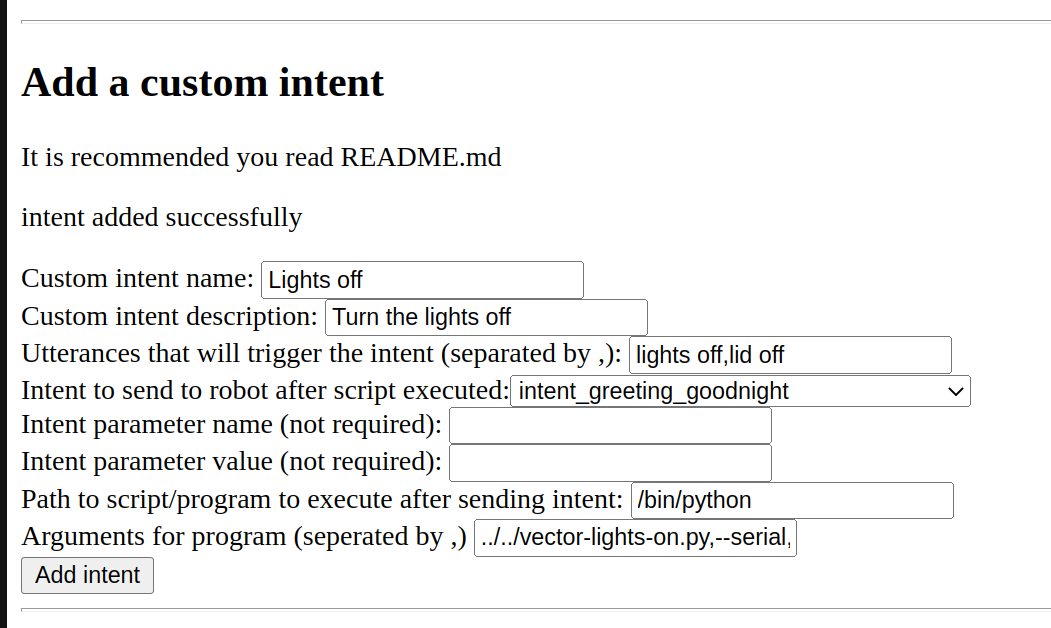
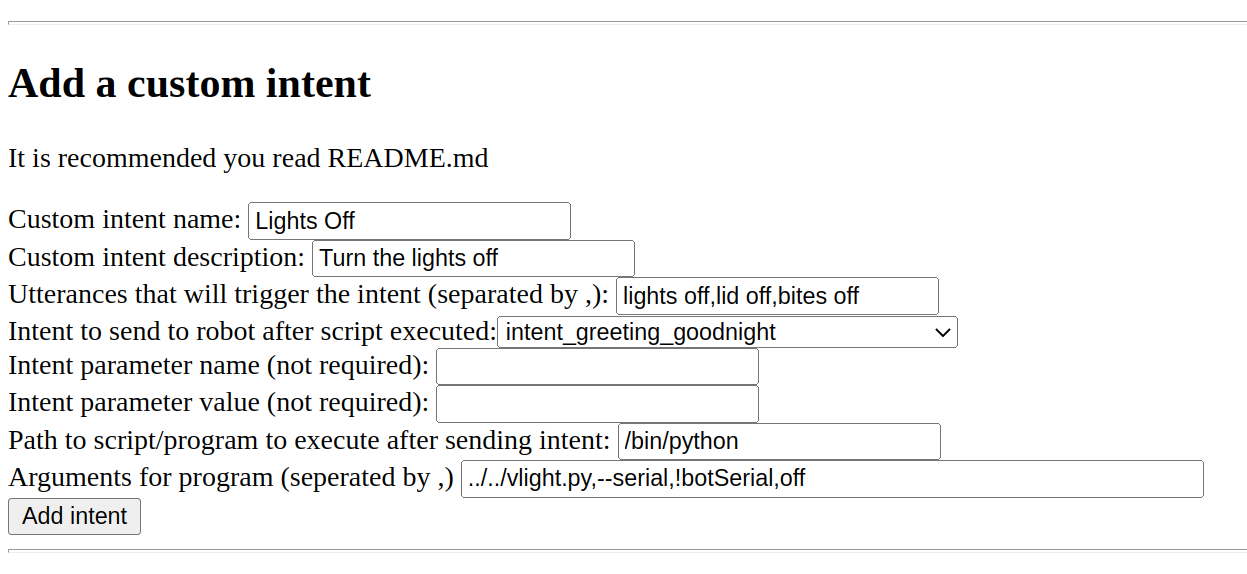
Update screenshot to match description in readme, increase argument form width for custom intents

Changed region(s): [[0.0, 0.0, 1.0, 1.0]]

diff --git a/chipper/webroot/index.html b/chipper/webroot/index.html
@@ -24,7 +24,7 @@
             <label for="execAdd">Path to script/program to execute after sending intent:</label>
             <input type="text" name="execAdd" id="execAdd"><br>
             <label for="execAdd">Arguments for program (seperated by ,)</label>
-            <input type="text" name="execAddArgs" id="execAddArgs"><br>
+            <input type="text" name="execAddArgs" id="execAddArgs" size="50"><br>
         </form>
         <button onclick="sendIntentAdd()">Add intent</button>
     <hr>

diff --git a/README.md b/README.md
@@ -177,9 +177,8 @@ Chipper hosts a web interface at port 8080. This can be used to create custom in
 To get to it, open a browser and go to `http://serverip:8080`, replacing serverip with the IP address of the machine running the chipper server. If you are running the browser on the machine running chipper, you can go to `http://localhost:8080`
 
 - Custom intents
-	- Example: You want to create a custom intent that allows Vector to turn the lights off. The transcribed text that matches to this intent should include "lights off" and other variations like "lid off" for better detection. It will execute a python script located in your user directory called `vector-lights-off.py`. This script turns the lights off and connects to Vector so he says "The lights are off!". You have multiple bots registered with the SDK so a serial number must be specified. After the SDK program is complete, chipper should send `intent_greeting_goodnight`. The following screenshot is a correct configuration for this case. The `Add intent` button would be pressed after everything is put in.
+	- Example: You want to create a custom intent that allows Vector to turn the lights off. The transcribed text that matches to this intent should include "lights off" and other variations like "lid off" for better detection. It will execute a python script located in your user directory called `vlight.py`. It should be launched with the `off` variable because the lights are being turned off. This script turns the lights off and connects to Vector so he says "The lights are off!". You have multiple bots registered with the SDK so a serial number must be specified. After the SDK program is complete, chipper should send `intent_greeting_goodnight`. The following screenshot is a correct configuration for this case. The `Add intent` button would be pressed after everything is put in.
 	- ![Custom Intent Screenshot](./images/customIntent.png)
-	- The last entry cannot be seen fully here, it contains `../../vector-lights-on.py,--serial,!botSerial`
 	- (If `!botSerial` is put into the program arguments, chipper will substitute it for the serial number of the bot that is making a request to it.)
 - Bot configurations
 	- Example: You have a bot on 1.6 with a serial number of 0060059b; located in Des Moines, Iowa; and you would like to use Fahrenheit for the temperature unit in the weather command. The following screenshot is a correct configuration for that bot. Once that is input, you would press "Add bot". It would then be registered with chipper.
